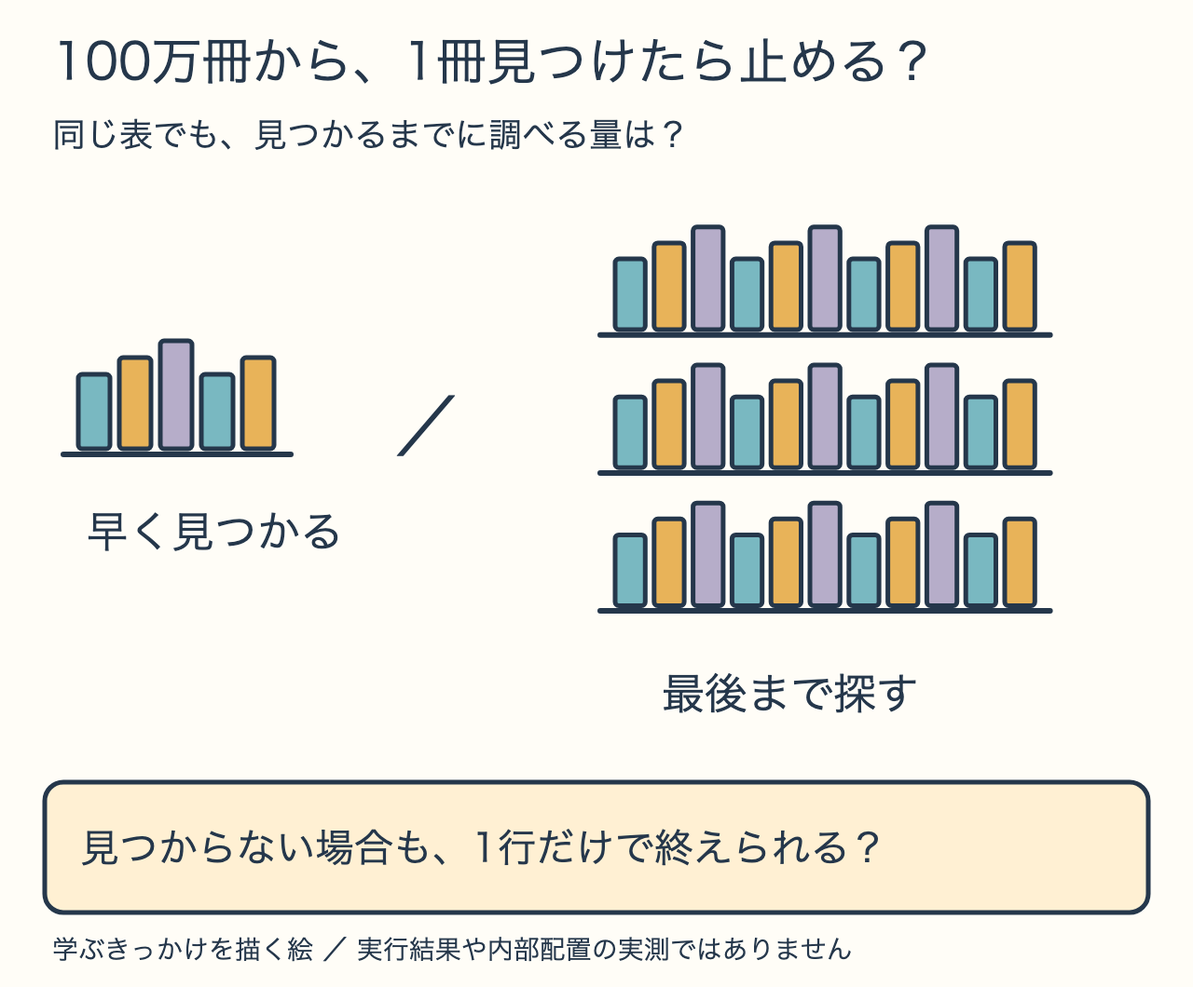
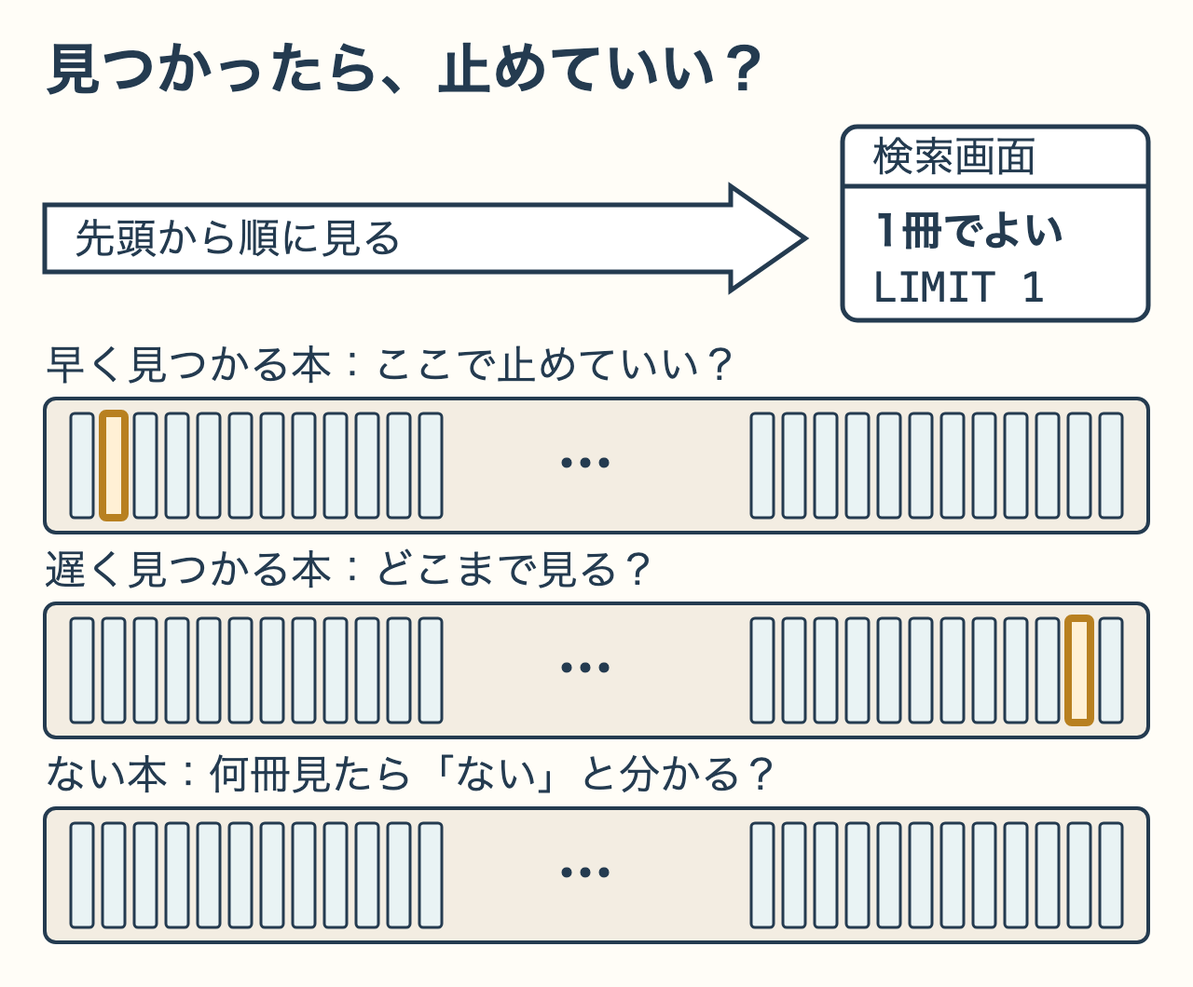
docs(query-journey): 第2章の場面の絵を、同じ100万冊で本の位置だけが違う3段の棚にする
小さい棚と大きい棚を比べる絵は、本を増やしていた旧構成の名残で、表の大きさの違いに読めた。「最後まで探す」も直後の予想の答えだった。同じ長さの棚を3段描き、目的の本の位置だけを変えて、どこまで見ればよいかを問う形にした。

diff --git a/images/postgresql-query-journey/index.html b/images/postgresql-query-journey/index.html
@@ -1,1 +1,1 @@
-<!doctype html><html lang="ja"><meta charset="utf-8"><meta name="viewport" content="width=device-width, initial-scale=1"><title>PostgreSQL本の図解一覧</title><style>body{margin:0;background:#f3f6f8;color:#243b50;font-family:system-ui,sans-serif}main{max-width:1250px;margin:auto;padding:32px}h1{font-size:28px}p{line-height:1.8}section{margin:48px 0}h2{border-bottom:2px solid #a8c8be;padding-bottom:12px}small{font-weight:400;font-size:16px}.grid{display:grid;grid-template-columns:repeat(3,minmax(0,1fr));gap:20px}article{background:white;border:1px solid #cedae1;border-radius:12px;padding:16px}h3{font-size:16px;min-height:48px}img{width:100%;height:auto;display:block}a{color:#176e65}article p{margin-bottom:0}@media(max-width:900px){.grid{grid-template-columns:repeat(2,minmax(0,1fr))}}@media(max-width:580px){main{padding:16px}.grid{grid-template-columns:1fr}}</style><main><h1>いつものSQLで学ぶデータ構造とアルゴリズム</h1><p>序章から第12章まで、計48枚。全体を見渡す絵、各章のサービスの場面、仕組みを理解する技術図を掲載しています。</p><section><h2>序章 <small>4枚</small></h2><div class="grid"><article><h3>この本で、一緒に調べること</h3><a href="00-book-sketch.png"><img src="00-book-sketch.png" alt="この本で、一緒に調べること" loading="lazy"></a><p><a href="sources/00-book-sketch.svg">SVG原本</a> · <a href="00-book-sketch.png">PNG</a></p></article><article><h3>こんな読書記録サービスを作ります</h3><a href="00-reading-service.png"><img src="00-reading-service.png" alt="こんな読書記録サービスを作ります" loading="lazy"></a><p><a href="sources/00-reading-service.svg">SVG原本</a> · <a href="00-reading-service.png">PNG</a></p></article><article><h3>本の冊数と、読了記録の件数</h3><a href="00-books-and-records.png"><img src="00-books-and-records.png" alt="本の冊数と、読了記録の件数" loading="lazy"></a><p><a href="sources/00-books-and-records.svg">SVG原本</a> · <a href="00-books-and-records.png">PNG</a></p></article><article><h3>20冊を返すまでに、何をしている？</h3><a href="00-ranking-question.png"><img src="00-ranking-question.png" alt="20冊を返すまでに、何をしている？" loading="lazy"></a><p><a href="sources/00-ranking-question.svg">SVG原本</a> · <a href="00-ranking-question.png">PNG</a></p></article></div></section><section><h2>第1章 <small>4枚</small></h2><div class="grid"><article><h3>まずは、1冊だけ探してみる</h3><a href="01-search-window.png"><img src="01-search-window.png" alt="まずは、1冊だけ探してみる" loading="lazy"></a><p><a href="sources/01-search-window.svg">SVG原本</a> · <a href="01-search-window.png">PNG</a></p></article><article><h3>計画・実行・表示のどこまで進むか</h3><a href="01-explain-stages.png"><img src="01-explain-stages.png" alt="計画・実行・表示のどこまで進むか" loading="lazy"></a><p><a href="sources/01-explain-stages.svg">SVG原本</a> · <a href="01-explain-stages.png">PNG</a></p></article><article><h3>1行のために、100万行を比べた</h3><a href="01-scan-and-filter.png"><img src="01-scan-and-filter.png" alt="1行のために、100万行を比べた" loading="lazy"></a><p><a href="sources/01-scan-and-filter.svg">SVG原本</a> · <a href="01-scan-and-filter.png">PNG</a></p></article><article><h3>索引で場所を探し、その行だけ読む</h3><a href="01-index-to-row.png"><img src="01-index-to-row.png" alt="索引で場所を探し、その行だけ読む" loading="lazy"></a><p><a href="sources/01-index-to-row.svg">SVG原本</a> · <a href="01-index-to-row.png">PNG</a></p></article></div></section><section><h2>第2章 <small>4枚</small></h2><div class="grid"><article><h3>100万冊から、1冊見つけたら止める？</h3><a href="05-growing-library.png"><img src="05-growing-library.png" alt="100万冊から、1冊見つけたら止める？" loading="lazy"></a><p><a href="sources/05-growing-library.svg">SVG原本</a> · <a href="05-growing-library.png">PNG</a></p></article><article><h3>一致した後も、最後まで比べる</h3><a href="05-linear-scan.png"><img src="05-linear-scan.png" alt="一致した後も、最後まで比べる" loading="lazy"></a><p><a href="sources/05-linear-scan.svg">SVG原本</a> · <a href="05-linear-scan.png">PNG</a></p></article><article><h3>Limitが次の行を求めなくなる</h3><a href="05-limit-search.png"><img src="05-limit-search.png" alt="Limitが次の行を求めなくなる" loading="lazy"></a><p><a href="sources/05-limit-search.svg">SVG原本</a> · <a href="05-limit-search.png">PNG</a></p></article><article><h3>位置で変わる、比べる行数</h3><a href="05-limit-bands.png"><img src="05-limit-bands.png" alt="位置で変わる、比べる行数" loading="lazy"></a><p><a href="sources/05-limit-bands.svg">SVG原本</a> · <a href="05-limit-bands.png">PNG</a></p></article></div></section><section><h2>第3章 <small>3枚</small></h2><div class="grid"><article><h3>8を探す：範囲を選んでから、値を探す</h3><a href="06-btree-path.png"><img src="06-btree-path.png" alt="8を探す：範囲を選んでから、値を探す" loading="lazy"></a><p><a href="sources/06-btree-path.svg">SVG原本</a> · <a href="06-btree-path.png">PNG</a></p></article><article><h3>4以上8以下なら、隣の葉も読む</h3><a href="06-range-scan.png"><img src="06-range-scan.png" alt="4以上8以下なら、隣の葉も読む" loading="lazy"></a><p><a href="sources/06-range-scan.svg">SVG原本</a> · <a href="06-range-scan.png">PNG</a></p></article><article><h3>目録も大きい。それでも速い？</h3><a href="06-catalog-question.png"><img src="06-catalog-question.png" alt="目録も大きい。それでも速い？" loading="lazy"></a><p><a href="sources/06-catalog-question.svg">SVG原本</a> · <a href="06-catalog-question.png">PNG</a></p></article></div></section><section><h2>第4章 <small>5枚</small></h2><div class="grid"><article><h3>索引をたどって、表の行へ届く</h3><a href="03-index-reference.png"><img src="03-index-reference.png" alt="索引をたどって、表の行へ届く" loading="lazy"></a><p><a href="sources/03-index-reference.svg">SVG原本</a> · <a href="03-index-reference.png">PNG</a></p></article><article><h3>表の中にページ、ページの中に行</h3><a href="03-pages-and-rows.png"><img src="03-pages-and-rows.png" alt="表の中にページ、ページの中に行" loading="lazy"></a><p><a href="sources/03-pages-and-rows.svg">SVG原本</a> · <a href="03-pages-and-rows.png">PNG</a></p></article><article><h3>同じ1,000行でも、8ページと32ページ</h3><a href="03-row-width.png"><img src="03-row-width.png" alt="同じ1,000行でも、8ページと32ページ" loading="lazy"></a><p><a href="sources/03-row-width.svg">SVG原本</a> · <a href="03-row-width.png">PNG</a></p></article><article><h3>本の一覧は、どこに保存される？</h3><a href="03-storage-question.png"><img src="03-storage-question.png" alt="本の一覧は、どこに保存される？" loading="lazy"></a><p><a href="sources/03-storage-question.svg">SVG原本</a> · <a href="03-storage-question.png">PNG</a></p></article><article><h3>ctid = (0,1) が指す場所</h3><a href="03-ctid-location.png"><img src="03-ctid-location.png" alt="ctid = (0,1) が指す場所" loading="lazy"></a><p><a href="sources/03-ctid-location.svg">SVG原本</a> · <a href="03-ctid-location.png">PNG</a></p></article></div></section><section><h2>第5章 <small>3枚</small></h2><div class="grid"><article><h3>ページの保存場所と、計算の作業場所</h3><a href="04-memory-regions.png"><img src="04-memory-regions.png" alt="ページの保存場所と、計算の作業場所" loading="lazy"></a><p><a href="sources/04-memory-regions.svg">SVG原本</a> · <a href="04-memory-regions.png">PNG</a></p></article><article><h3>ファイルのページを、メモリで再利用する</h3><a href="shared-buffer-reuse.png"><img src="shared-buffer-reuse.png" alt="ファイルのページを、メモリで再利用する" loading="lazy"></a><p><a href="sources/shared-buffer-reuse.svg">SVG原本</a> · <a href="shared-buffer-reuse.png">PNG</a></p></article><article><h3>同じ検索を、もう一度</h3><a href="04-repeat-observation.png"><img src="04-repeat-observation.png" alt="同じ検索を、もう一度" loading="lazy"></a><p><a href="sources/04-repeat-observation.svg">SVG原本</a> · <a href="04-repeat-observation.png">PNG</a></p></article></div></section><section><h2>第6章 <small>4枚</small></h2><div class="grid"><article><h3>接続ごとにプロセスが動く</h3><a href="02-connections.png"><img src="02-connections.png" alt="接続ごとにプロセスが動く" loading="lazy"></a><p><a href="sources/02-connections.svg">SVG原本</a> · <a href="02-connections.png">PNG</a></p></article><article><h3>Index Scanから、Limitへ行が渡る</h3><a href="02-execution-tree.png"><img src="02-execution-tree.png" alt="Index Scanから、Limitへ行が渡る" loading="lazy"></a><p><a href="sources/02-execution-tree.svg">SVG原本</a> · <a href="02-execution-tree.png">PNG</a></p></article><article><h3>画面の向こうで、SQLが動く</h3><a href="02-client-scene.png"><img src="02-client-scene.png" alt="画面の向こうで、SQLが動く" loading="lazy"></a><p><a href="sources/02-client-scene.svg">SVG原本</a> · <a href="02-client-scene.png">PNG</a></p></article><article><h3>SQLの文字列から、検索結果が返るまで</h3><a href="02-query-stages.png"><img src="02-query-stages.png" alt="SQLの文字列から、検索結果が返るまで" loading="lazy"></a><p><a href="sources/02-query-stages.svg">SVG原本</a> · <a href="02-query-stages.png">PNG</a></p></article></div></section><section><h2>第7章 <small>3枚</small></h2><div class="grid"><article><h3>メモリに収まらないときの並べ替え</h3><a href="07-external-sort.png"><img src="07-external-sort.png" alt="メモリに収まらないときの並べ替え" loading="lazy"></a><p><a href="sources/07-external-sort.svg">SVG原本</a> · <a href="07-external-sort.png">PNG</a></p></article><article><h3>二つの並びを、比べながら合流する</h3><a href="07-merge-cards.png"><img src="07-merge-cards.png" alt="二つの並びを、比べながら合流する" loading="lazy"></a><p><a href="sources/07-merge-cards.svg">SVG原本</a> · <a href="07-merge-cards.png">PNG</a></p></article><article><h3>読み終えた順に、並べたい</h3><a href="07-recent-records.png"><img src="07-recent-records.png" alt="読み終えた順に、並べたい" loading="lazy"></a><p><a href="sources/07-recent-records.svg">SVG原本</a> · <a href="07-recent-records.png">PNG</a></p></article></div></section><section><h2>第8章 <small>3枚</small></h2><div class="grid"><article><h3>候補を絞る方法と、途中で止まる方法</h3><a href="08-top-n-vs-index.png"><img src="08-top-n-vs-index.png" alt="候補を絞る方法と、途中で止まる方法" loading="lazy"></a><p><a href="sources/08-top-n-vs-index.svg">SVG原本</a> · <a href="08-top-n-vs-index.png">PNG</a></p></article><article><h3>上位3枚を保つ：入れ替えるのはどれ？</h3><a href="top-three-heap.png"><img src="top-three-heap.png" alt="上位3枚を保つ：入れ替えるのはどれ？" loading="lazy"></a><p><a href="sources/top-three-heap.svg">SVG原本</a> · <a href="top-three-heap.png">PNG</a></p></article><article><h3>画面に欲しいのは、最新20件</h3><a href="08-twenty-window.png"><img src="08-twenty-window.png" alt="画面に欲しいのは、最新20件" loading="lazy"></a><p><a href="sources/08-twenty-window.svg">SVG原本</a> · <a href="08-twenty-window.png">PNG</a></p></article></div></section><section><h2>第9章 <small>4枚</small></h2><div class="grid"><article><h3>先に分類し、同じ箱の中で照合する</h3><a href="09-hash-join.png"><img src="09-hash-join.png" alt="先に分類し、同じ箱の中で照合する" loading="lazy"></a><p><a href="sources/09-hash-join.svg">SVG原本</a> · <a href="09-hash-join.png">PNG</a></p></article><article><h3>並んだ二つの入力を、先頭から合わせる</h3><a href="09-merge-join.png"><img src="09-merge-join.png" alt="並んだ二つの入力を、先頭から合わせる" loading="lazy"></a><p><a href="sources/09-merge-join.svg">SVG原本</a> · <a href="09-merge-join.png">PNG</a></p></article><article><h3>記録を1件取り出すたびに、本を探す</h3><a href="09-nested-loop.png"><img src="09-nested-loop.png" alt="記録を1件取り出すたびに、本を探す" loading="lazy"></a><p><a href="sources/09-nested-loop.svg">SVG原本</a> · <a href="09-nested-loop.png">PNG</a></p></article><article><h3>本の番号だけでは、題名が分からない</h3><a href="09-title-lookup.png"><img src="09-title-lookup.png" alt="本の番号だけでは、題名が分からない" loading="lazy"></a><p><a href="sources/09-title-lookup.svg">SVG原本</a> · <a href="09-title-lookup.png">PNG</a></p></article></div></section><section><h2>第10章 <small>3枚</small></h2><div class="grid"><article><h3>入口の見積もりが、後ろの判断に響く</h3><a href="10-estimate-propagation.png"><img src="10-estimate-propagation.png" alt="入口の見積もりが、後ろの判断に響く" loading="lazy"></a><p><a href="sources/10-estimate-propagation.svg">SVG原本</a> · <a href="10-estimate-propagation.png">PNG</a></p></article><article><h3>同じ「1種類」でも、9,000行と1,000行</h3><a href="10-selectivity.png"><img src="10-selectivity.png" alt="同じ「1種類」でも、9,000行と1,000行" loading="lazy"></a><p><a href="sources/10-selectivity.svg">SVG原本</a> · <a href="10-selectivity.png">PNG</a></p></article><article><h3>索引があるのに、なぜ使わない？</h3><a href="10-planner-choice.png"><img src="10-planner-choice.png" alt="索引があるのに、なぜ使わない？" loading="lazy"></a><p><a href="sources/10-planner-choice.svg">SVG原本</a> · <a href="10-planner-choice.png">PNG</a></p></article></div></section><section><h2>第11章 <small>4枚</small></h2><div class="grid"><article><h3>読む時点によって、見える版が変わる</h3><a href="11-snapshots.png"><img src="11-snapshots.png" alt="読む時点によって、見える版が変わる" loading="lazy"></a><p><a href="sources/11-snapshots.svg">SVG原本</a> · <a href="11-snapshots.png">PNG</a></p></article><article><h3>索引だけで返せるかは、可視性にもよる</h3><a href="11-visibility-map.png"><img src="11-visibility-map.png" alt="索引だけで返せるかは、可視性にもよる" loading="lazy"></a><p><a href="sources/11-visibility-map.svg">SVG原本</a> · <a href="11-visibility-map.png">PNG</a></p></article><article><h3>ログの保存と、ページの書き出し</h3><a href="11-wal-and-pages.png"><img src="11-wal-and-pages.png" alt="ログの保存と、ページの書き出し" loading="lazy"></a><p><a href="sources/11-wal-and-pages.svg">SVG原本</a> · <a href="11-wal-and-pages.png">PNG</a></p></article><article><h3>題名を直している間に、読まれたら？</h3><a href="11-editing-scene.png"><img src="11-editing-scene.png" alt="題名を直している間に、読まれたら？" loading="lazy"></a><p><a href="sources/11-editing-scene.svg">SVG原本</a> · <a href="11-editing-scene.png">PNG</a></p></article></div></section><section><h2>第12章 <small>4枚</small></h2><div class="grid"><article><h3>表示は軽くなる。集計の更新は必要。</h3><a href="12-preaggregation.png"><img src="12-preaggregation.png" alt="表示は軽くなる。集計の更新は必要。" loading="lazy"></a><p><a href="sources/12-preaggregation.svg">SVG原本</a> · <a href="12-preaggregation.png">PNG</a></p></article><article><h3>上位を選んでから題名を付ける</h3><a href="12-ranking-after.png"><img src="12-ranking-after.png" alt="上位を選んでから題名を付ける" loading="lazy"></a><p><a href="sources/12-ranking-after.svg">SVG原本</a> · <a href="12-ranking-after.png">PNG</a></p></article><article><h3>題名を付けてから、上位を選ぶ</h3><a href="12-ranking-before.png"><img src="12-ranking-before.png" alt="題名を付けてから、上位を選ぶ" loading="lazy"></a><p><a href="sources/12-ranking-before.svg">SVG原本</a> · <a href="12-ranking-before.png">PNG</a></p></article><article><h3>今度は、根拠を持って選べる</h3><a href="12-decision-notebook.png"><img src="12-decision-notebook.png" alt="今度は、根拠を持って選べる" loading="lazy"></a><p><a href="sources/12-decision-notebook.svg">SVG原本</a> · <a href="12-decision-notebook.png">PNG</a></p></article></div></section></main></html>
+<!doctype html><html lang="ja"><meta charset="utf-8"><meta name="viewport" content="width=device-width, initial-scale=1"><title>PostgreSQL本の図解一覧</title><style>body{margin:0;background:#f3f6f8;color:#243b50;font-family:system-ui,sans-serif}main{max-width:1250px;margin:auto;padding:32px}h1{font-size:28px}p{line-height:1.8}section{margin:48px 0}h2{border-bottom:2px solid #a8c8be;padding-bottom:12px}small{font-weight:400;font-size:16px}.grid{display:grid;grid-template-columns:repeat(3,minmax(0,1fr));gap:20px}article{background:white;border:1px solid #cedae1;border-radius:12px;padding:16px}h3{font-size:16px;min-height:48px}img{width:100%;height:auto;display:block}a{color:#176e65}article p{margin-bottom:0}@media(max-width:900px){.grid{grid-template-columns:repeat(2,minmax(0,1fr))}}@media(max-width:580px){main{padding:16px}.grid{grid-template-columns:1fr}}</style><main><h1>いつものSQLで学ぶデータ構造とアルゴリズム</h1><p>序章から第12章まで、計48枚。全体を見渡す絵、各章のサービスの場面、仕組みを理解する技術図を掲載しています。</p><section><h2>序章 <small>4枚</small></h2><div class="grid"><article><h3>この本で、一緒に調べること</h3><a href="00-book-sketch.png"><img src="00-book-sketch.png" alt="この本で、一緒に調べること" loading="lazy"></a><p><a href="sources/00-book-sketch.svg">SVG原本</a> · <a href="00-book-sketch.png">PNG</a></p></article><article><h3>こんな読書記録サービスを作ります</h3><a href="00-reading-service.png"><img src="00-reading-service.png" alt="こんな読書記録サービスを作ります" loading="lazy"></a><p><a href="sources/00-reading-service.svg">SVG原本</a> · <a href="00-reading-service.png">PNG</a></p></article><article><h3>本の冊数と、読了記録の件数</h3><a href="00-books-and-records.png"><img src="00-books-and-records.png" alt="本の冊数と、読了記録の件数" loading="lazy"></a><p><a href="sources/00-books-and-records.svg">SVG原本</a> · <a href="00-books-and-records.png">PNG</a></p></article><article><h3>20冊を返すまでに、何をしている？</h3><a href="00-ranking-question.png"><img src="00-ranking-question.png" alt="20冊を返すまでに、何をしている？" loading="lazy"></a><p><a href="sources/00-ranking-question.svg">SVG原本</a> · <a href="00-ranking-question.png">PNG</a></p></article></div></section><section><h2>第1章 <small>4枚</small></h2><div class="grid"><article><h3>まずは、1冊だけ探してみる</h3><a href="01-search-window.png"><img src="01-search-window.png" alt="まずは、1冊だけ探してみる" loading="lazy"></a><p><a href="sources/01-search-window.svg">SVG原本</a> · <a href="01-search-window.png">PNG</a></p></article><article><h3>計画・実行・表示のどこまで進むか</h3><a href="01-explain-stages.png"><img src="01-explain-stages.png" alt="計画・実行・表示のどこまで進むか" loading="lazy"></a><p><a href="sources/01-explain-stages.svg">SVG原本</a> · <a href="01-explain-stages.png">PNG</a></p></article><article><h3>1行のために、100万行を比べた</h3><a href="01-scan-and-filter.png"><img src="01-scan-and-filter.png" alt="1行のために、100万行を比べた" loading="lazy"></a><p><a href="sources/01-scan-and-filter.svg">SVG原本</a> · <a href="01-scan-and-filter.png">PNG</a></p></article><article><h3>索引で場所を探し、その行だけ読む</h3><a href="01-index-to-row.png"><img src="01-index-to-row.png" alt="索引で場所を探し、その行だけ読む" loading="lazy"></a><p><a href="sources/01-index-to-row.svg">SVG原本</a> · <a href="01-index-to-row.png">PNG</a></p></article></div></section><section><h2>第2章 <small>4枚</small></h2><div class="grid"><article><h3>見つかったら、止めていい？</h3><a href="05-growing-library.png"><img src="05-growing-library.png" alt="見つかったら、止めていい？" loading="lazy"></a><p><a href="sources/05-growing-library.svg">SVG原本</a> · <a href="05-growing-library.png">PNG</a></p></article><article><h3>一致した後も、最後まで比べる</h3><a href="05-linear-scan.png"><img src="05-linear-scan.png" alt="一致した後も、最後まで比べる" loading="lazy"></a><p><a href="sources/05-linear-scan.svg">SVG原本</a> · <a href="05-linear-scan.png">PNG</a></p></article><article><h3>Limitが次の行を求めなくなる</h3><a href="05-limit-search.png"><img src="05-limit-search.png" alt="Limitが次の行を求めなくなる" loading="lazy"></a><p><a href="sources/05-limit-search.svg">SVG原本</a> · <a href="05-limit-search.png">PNG</a></p></article><article><h3>位置で変わる、比べる行数</h3><a href="05-limit-bands.png"><img src="05-limit-bands.png" alt="位置で変わる、比べる行数" loading="lazy"></a><p><a href="sources/05-limit-bands.svg">SVG原本</a> · <a href="05-limit-bands.png">PNG</a></p></article></div></section><section><h2>第3章 <small>3枚</small></h2><div class="grid"><article><h3>8を探す：範囲を選んでから、値を探す</h3><a href="06-btree-path.png"><img src="06-btree-path.png" alt="8を探す：範囲を選んでから、値を探す" loading="lazy"></a><p><a href="sources/06-btree-path.svg">SVG原本</a> · <a href="06-btree-path.png">PNG</a></p></article><article><h3>4以上8以下なら、隣の葉も読む</h3><a href="06-range-scan.png"><img src="06-range-scan.png" alt="4以上8以下なら、隣の葉も読む" loading="lazy"></a><p><a href="sources/06-range-scan.svg">SVG原本</a> · <a href="06-range-scan.png">PNG</a></p></article><article><h3>目録も大きい。それでも速い？</h3><a href="06-catalog-question.png"><img src="06-catalog-question.png" alt="目録も大きい。それでも速い？" loading="lazy"></a><p><a href="sources/06-catalog-question.svg">SVG原本</a> · <a href="06-catalog-question.png">PNG</a></p></article></div></section><section><h2>第4章 <small>5枚</small></h2><div class="grid"><article><h3>索引をたどって、表の行へ届く</h3><a href="03-index-reference.png"><img src="03-index-reference.png" alt="索引をたどって、表の行へ届く" loading="lazy"></a><p><a href="sources/03-index-reference.svg">SVG原本</a> · <a href="03-index-reference.png">PNG</a></p></article><article><h3>表の中にページ、ページの中に行</h3><a href="03-pages-and-rows.png"><img src="03-pages-and-rows.png" alt="表の中にページ、ページの中に行" loading="lazy"></a><p><a href="sources/03-pages-and-rows.svg">SVG原本</a> · <a href="03-pages-and-rows.png">PNG</a></p></article><article><h3>同じ1,000行でも、8ページと32ページ</h3><a href="03-row-width.png"><img src="03-row-width.png" alt="同じ1,000行でも、8ページと32ページ" loading="lazy"></a><p><a href="sources/03-row-width.svg">SVG原本</a> · <a href="03-row-width.png">PNG</a></p></article><article><h3>本の一覧は、どこに保存される？</h3><a href="03-storage-question.png"><img src="03-storage-question.png" alt="本の一覧は、どこに保存される？" loading="lazy"></a><p><a href="sources/03-storage-question.svg">SVG原本</a> · <a href="03-storage-question.png">PNG</a></p></article><article><h3>ctid = (0,1) が指す場所</h3><a href="03-ctid-location.png"><img src="03-ctid-location.png" alt="ctid = (0,1) が指す場所" loading="lazy"></a><p><a href="sources/03-ctid-location.svg">SVG原本</a> · <a href="03-ctid-location.png">PNG</a></p></article></div></section><section><h2>第5章 <small>3枚</small></h2><div class="grid"><article><h3>ページの保存場所と、計算の作業場所</h3><a href="04-memory-regions.png"><img src="04-memory-regions.png" alt="ページの保存場所と、計算の作業場所" loading="lazy"></a><p><a href="sources/04-memory-regions.svg">SVG原本</a> · <a href="04-memory-regions.png">PNG</a></p></article><article><h3>ファイルのページを、メモリで再利用する</h3><a href="shared-buffer-reuse.png"><img src="shared-buffer-reuse.png" alt="ファイルのページを、メモリで再利用する" loading="lazy"></a><p><a href="sources/shared-buffer-reuse.svg">SVG原本</a> · <a href="shared-buffer-reuse.png">PNG</a></p></article><article><h3>同じ検索を、もう一度</h3><a href="04-repeat-observation.png"><img src="04-repeat-observation.png" alt="同じ検索を、もう一度" loading="lazy"></a><p><a href="sources/04-repeat-observation.svg">SVG原本</a> · <a href="04-repeat-observation.png">PNG</a></p></article></div></section><section><h2>第6章 <small>4枚</small></h2><div class="grid"><article><h3>接続ごとにプロセスが動く</h3><a href="02-connections.png"><img src="02-connections.png" alt="接続ごとにプロセスが動く" loading="lazy"></a><p><a href="sources/02-connections.svg">SVG原本</a> · <a href="02-connections.png">PNG</a></p></article><article><h3>Index Scanから、Limitへ行が渡る</h3><a href="02-execution-tree.png"><img src="02-execution-tree.png" alt="Index Scanから、Limitへ行が渡る" loading="lazy"></a><p><a href="sources/02-execution-tree.svg">SVG原本</a> · <a href="02-execution-tree.png">PNG</a></p></article><article><h3>画面の向こうで、SQLが動く</h3><a href="02-client-scene.png"><img src="02-client-scene.png" alt="画面の向こうで、SQLが動く" loading="lazy"></a><p><a href="sources/02-client-scene.svg">SVG原本</a> · <a href="02-client-scene.png">PNG</a></p></article><article><h3>SQLの文字列から、検索結果が返るまで</h3><a href="02-query-stages.png"><img src="02-query-stages.png" alt="SQLの文字列から、検索結果が返るまで" loading="lazy"></a><p><a href="sources/02-query-stages.svg">SVG原本</a> · <a href="02-query-stages.png">PNG</a></p></article></div></section><section><h2>第7章 <small>3枚</small></h2><div class="grid"><article><h3>メモリに収まらないときの並べ替え</h3><a href="07-external-sort.png"><img src="07-external-sort.png" alt="メモリに収まらないときの並べ替え" loading="lazy"></a><p><a href="sources/07-external-sort.svg">SVG原本</a> · <a href="07-external-sort.png">PNG</a></p></article><article><h3>二つの並びを、比べながら合流する</h3><a href="07-merge-cards.png"><img src="07-merge-cards.png" alt="二つの並びを、比べながら合流する" loading="lazy"></a><p><a href="sources/07-merge-cards.svg">SVG原本</a> · <a href="07-merge-cards.png">PNG</a></p></article><article><h3>読み終えた順に、並べたい</h3><a href="07-recent-records.png"><img src="07-recent-records.png" alt="読み終えた順に、並べたい" loading="lazy"></a><p><a href="sources/07-recent-records.svg">SVG原本</a> · <a href="07-recent-records.png">PNG</a></p></article></div></section><section><h2>第8章 <small>3枚</small></h2><div class="grid"><article><h3>候補を絞る方法と、途中で止まる方法</h3><a href="08-top-n-vs-index.png"><img src="08-top-n-vs-index.png" alt="候補を絞る方法と、途中で止まる方法" loading="lazy"></a><p><a href="sources/08-top-n-vs-index.svg">SVG原本</a> · <a href="08-top-n-vs-index.png">PNG</a></p></article><article><h3>上位3枚を保つ：入れ替えるのはどれ？</h3><a href="top-three-heap.png"><img src="top-three-heap.png" alt="上位3枚を保つ：入れ替えるのはどれ？" loading="lazy"></a><p><a href="sources/top-three-heap.svg">SVG原本</a> · <a href="top-three-heap.png">PNG</a></p></article><article><h3>画面に欲しいのは、最新20件</h3><a href="08-twenty-window.png"><img src="08-twenty-window.png" alt="画面に欲しいのは、最新20件" loading="lazy"></a><p><a href="sources/08-twenty-window.svg">SVG原本</a> · <a href="08-twenty-window.png">PNG</a></p></article></div></section><section><h2>第9章 <small>4枚</small></h2><div class="grid"><article><h3>先に分類し、同じ箱の中で照合する</h3><a href="09-hash-join.png"><img src="09-hash-join.png" alt="先に分類し、同じ箱の中で照合する" loading="lazy"></a><p><a href="sources/09-hash-join.svg">SVG原本</a> · <a href="09-hash-join.png">PNG</a></p></article><article><h3>並んだ二つの入力を、先頭から合わせる</h3><a href="09-merge-join.png"><img src="09-merge-join.png" alt="並んだ二つの入力を、先頭から合わせる" loading="lazy"></a><p><a href="sources/09-merge-join.svg">SVG原本</a> · <a href="09-merge-join.png">PNG</a></p></article><article><h3>記録を1件取り出すたびに、本を探す</h3><a href="09-nested-loop.png"><img src="09-nested-loop.png" alt="記録を1件取り出すたびに、本を探す" loading="lazy"></a><p><a href="sources/09-nested-loop.svg">SVG原本</a> · <a href="09-nested-loop.png">PNG</a></p></article><article><h3>本の番号だけでは、題名が分からない</h3><a href="09-title-lookup.png"><img src="09-title-lookup.png" alt="本の番号だけでは、題名が分からない" loading="lazy"></a><p><a href="sources/09-title-lookup.svg">SVG原本</a> · <a href="09-title-lookup.png">PNG</a></p></article></div></section><section><h2>第10章 <small>3枚</small></h2><div class="grid"><article><h3>入口の見積もりが、後ろの判断に響く</h3><a href="10-estimate-propagation.png"><img src="10-estimate-propagation.png" alt="入口の見積もりが、後ろの判断に響く" loading="lazy"></a><p><a href="sources/10-estimate-propagation.svg">SVG原本</a> · <a href="10-estimate-propagation.png">PNG</a></p></article><article><h3>同じ「1種類」でも、9,000行と1,000行</h3><a href="10-selectivity.png"><img src="10-selectivity.png" alt="同じ「1種類」でも、9,000行と1,000行" loading="lazy"></a><p><a href="sources/10-selectivity.svg">SVG原本</a> · <a href="10-selectivity.png">PNG</a></p></article><article><h3>索引があるのに、なぜ使わない？</h3><a href="10-planner-choice.png"><img src="10-planner-choice.png" alt="索引があるのに、なぜ使わない？" loading="lazy"></a><p><a href="sources/10-planner-choice.svg">SVG原本</a> · <a href="10-planner-choice.png">PNG</a></p></article></div></section><section><h2>第11章 <small>4枚</small></h2><div class="grid"><article><h3>読む時点によって、見える版が変わる</h3><a href="11-snapshots.png"><img src="11-snapshots.png" alt="読む時点によって、見える版が変わる" loading="lazy"></a><p><a href="sources/11-snapshots.svg">SVG原本</a> · <a href="11-snapshots.png">PNG</a></p></article><article><h3>索引だけで返せるかは、可視性にもよる</h3><a href="11-visibility-map.png"><img src="11-visibility-map.png" alt="索引だけで返せるかは、可視性にもよる" loading="lazy"></a><p><a href="sources/11-visibility-map.svg">SVG原本</a> · <a href="11-visibility-map.png">PNG</a></p></article><article><h3>ログの保存と、ページの書き出し</h3><a href="11-wal-and-pages.png"><img src="11-wal-and-pages.png" alt="ログの保存と、ページの書き出し" loading="lazy"></a><p><a href="sources/11-wal-and-pages.svg">SVG原本</a> · <a href="11-wal-and-pages.png">PNG</a></p></article><article><h3>題名を直している間に、読まれたら？</h3><a href="11-editing-scene.png"><img src="11-editing-scene.png" alt="題名を直している間に、読まれたら？" loading="lazy"></a><p><a href="sources/11-editing-scene.svg">SVG原本</a> · <a href="11-editing-scene.png">PNG</a></p></article></div></section><section><h2>第12章 <small>4枚</small></h2><div class="grid"><article><h3>表示は軽くなる。集計の更新は必要。</h3><a href="12-preaggregation.png"><img src="12-preaggregation.png" alt="表示は軽くなる。集計の更新は必要。" loading="lazy"></a><p><a href="sources/12-preaggregation.svg">SVG原本</a> · <a href="12-preaggregation.png">PNG</a></p></article><article><h3>上位を選んでから題名を付ける</h3><a href="12-ranking-after.png"><img src="12-ranking-after.png" alt="上位を選んでから題名を付ける" loading="lazy"></a><p><a href="sources/12-ranking-after.svg">SVG原本</a> · <a href="12-ranking-after.png">PNG</a></p></article><article><h3>題名を付けてから、上位を選ぶ</h3><a href="12-ranking-before.png"><img src="12-ranking-before.png" alt="題名を付けてから、上位を選ぶ" loading="lazy"></a><p><a href="sources/12-ranking-before.svg">SVG原本</a> · <a href="12-ranking-before.png">PNG</a></p></article><article><h3>今度は、根拠を持って選べる</h3><a href="12-decision-notebook.png"><img src="12-decision-notebook.png" alt="今度は、根拠を持って選べる" loading="lazy"></a><p><a href="sources/12-decision-notebook.svg">SVG原本</a> · <a href="12-decision-notebook.png">PNG</a></p></article></div></section></main></html>

diff --git a/books/postgresql-query-journey/02-linear-search.md b/books/postgresql-query-journey/02-linear-search.md
@@ -12,8 +12,8 @@ title: "第2章：見つかったところで止めればよいのでは？"
 
 同じ100万冊を使って、返す件数を制限する`LIMIT 1`を試します。早く見つかる本と、なかなか見つからない本では、どんな違いがあるでしょうか。
 
-![100万冊から、1冊見つけたら止める？](/images/postgresql-query-journey/05-growing-library.png)
-*学ぶきっかけを描く、説明用の場面。棚の絵は実際の行の配置を表していません。*
+![同じ100万冊の棚が3段あり、目的の本が先頭近くにある段、最後近くにある段、見つからない段で、どこまで見ればよいかを問う絵](/images/postgresql-query-journey/05-growing-library.png)
+*3段とも同じ100万冊。目的の本の位置だけが違います。*
 
 まず、次の三つを予想してください。
 
